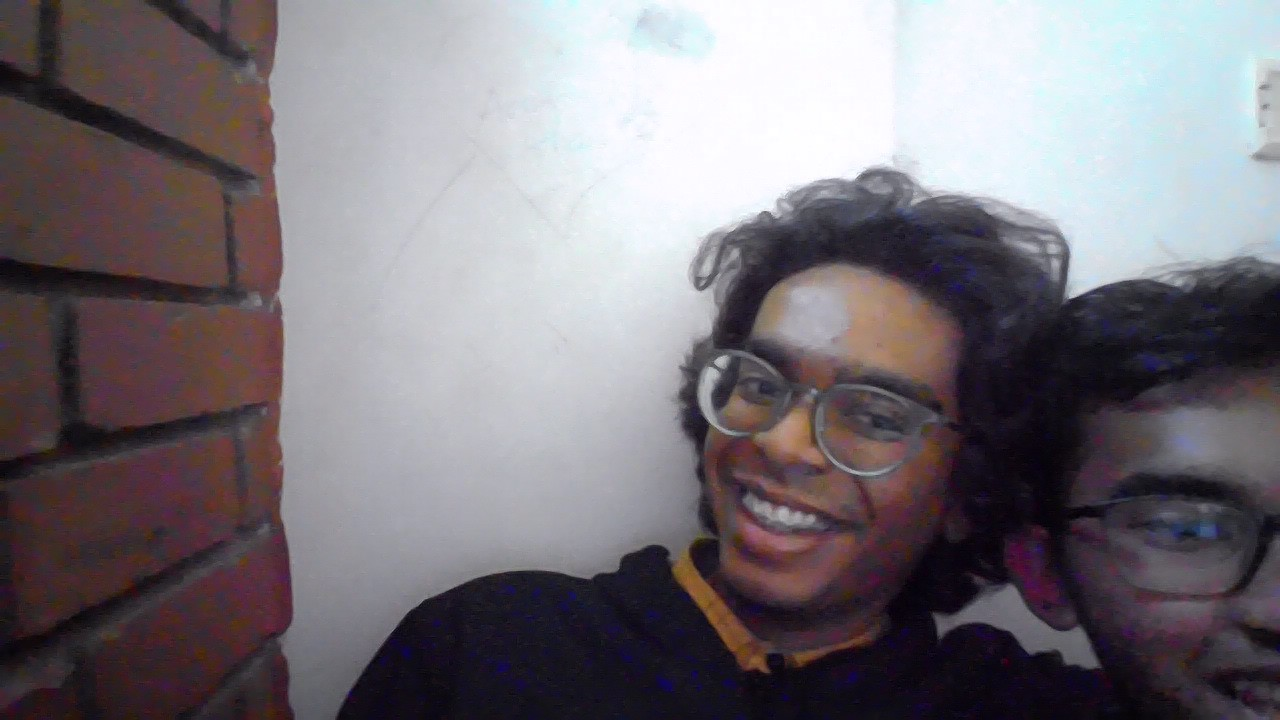
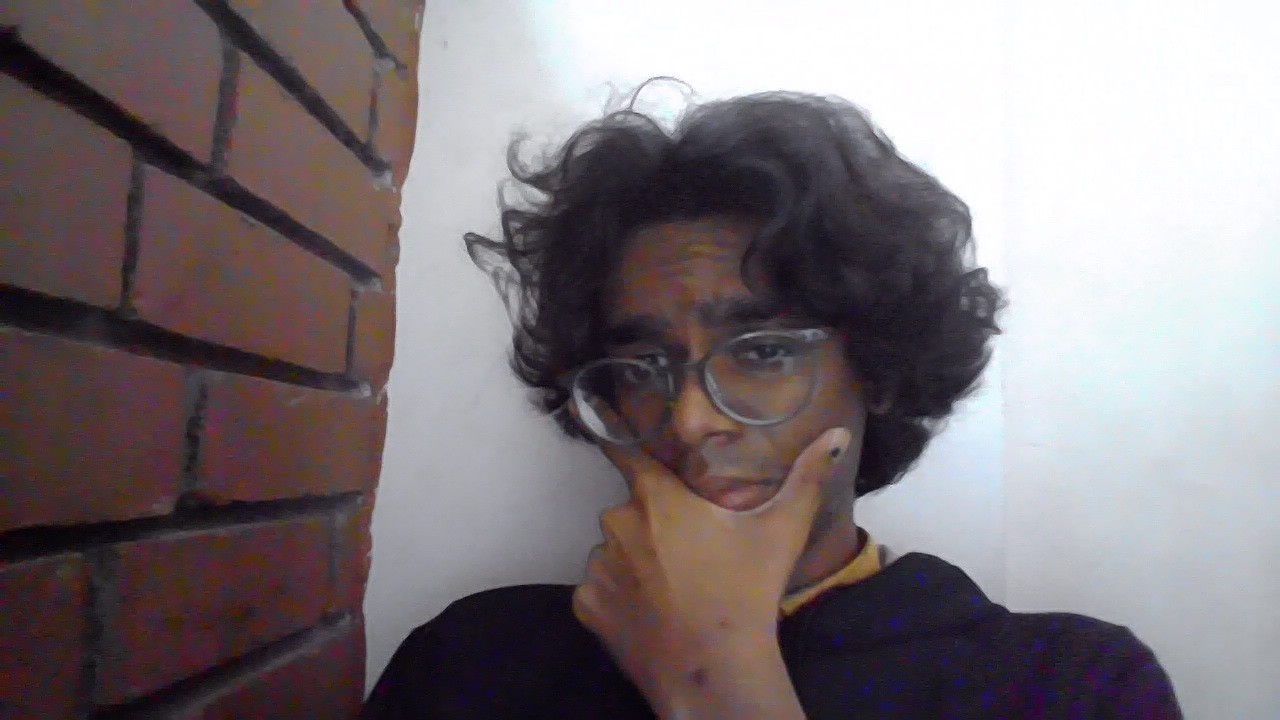
remove pouts

diff --git a/js.js b/js.js
@@ -351,7 +351,7 @@ const initImages = () => {
 
   setInterval(() => {
     index += 1
-    if (index > 6) index = 1
+    if (index > 5) index = 1
     image.src = `./images/${index}.jpg`
   }, 1000)
 
